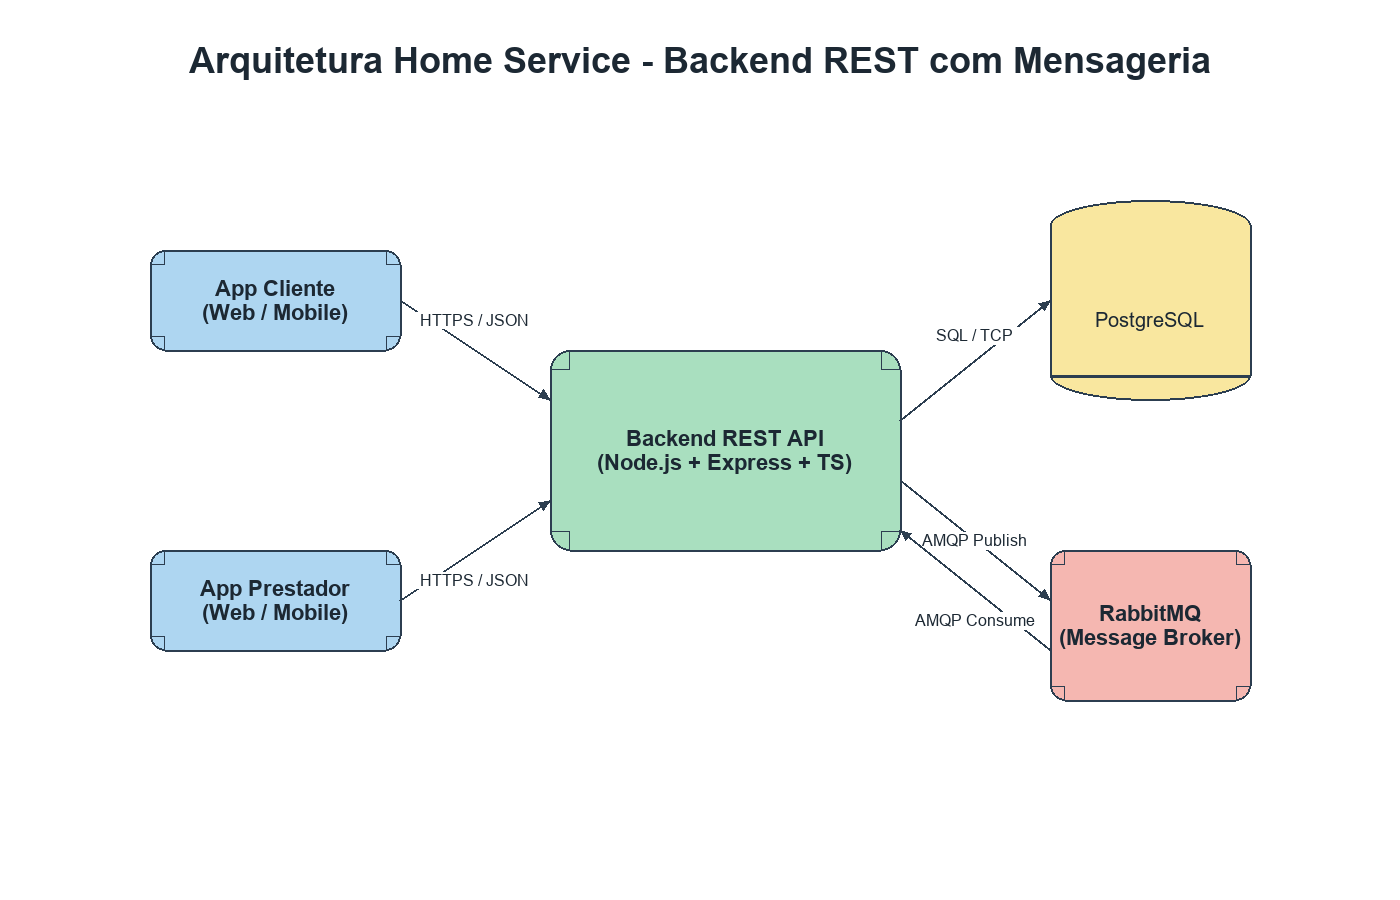
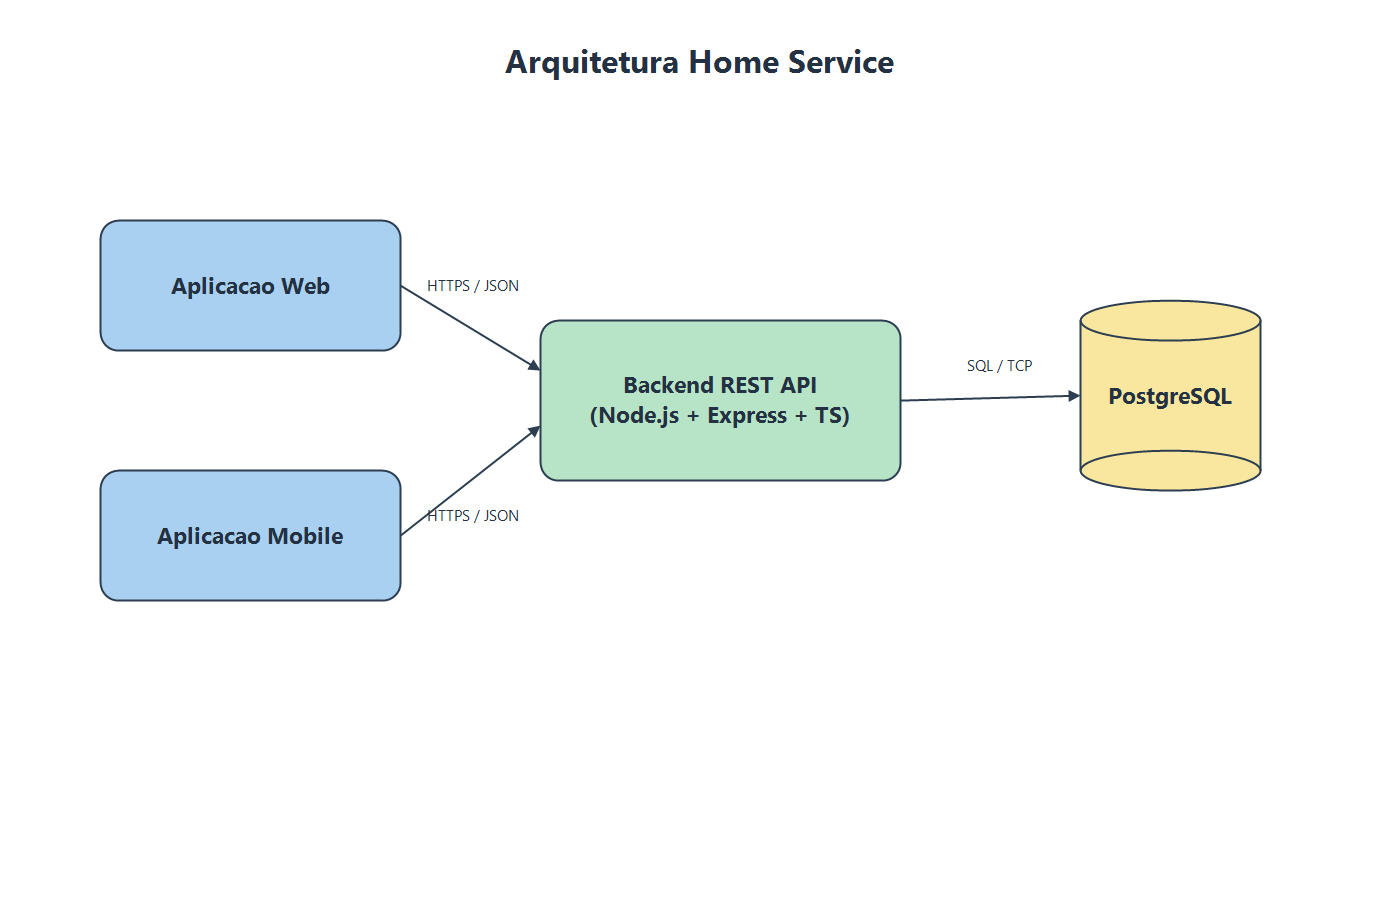
separando o web e o mobile no diagrama

diff --git a/projeto/docs/ARQUITETURA.md b/projeto/docs/ARQUITETURA.md
@@ -2,28 +2,34 @@
 
 ## Visão geral
 
-A solução implementada nesta Sprint 1 foi organizada em quatro blocos principais:
-- Frontend do Cliente
-- Frontend do Prestador
+A entrega implementada nesta Sprint 1 contempla os seguintes blocos:
 - Backend REST API
 - Banco de Dados PostgreSQL
+
+Como visao de sistema, a API foi pensada para ser consumida por uma aplicacao unica, web ou mobile, com suporte a diferentes perfis de usuario dentro do mesmo sistema.
+
+Na modelagem atual, cliente e prestador representam papeis de uso da plataforma, e nao aplicacoes separadas.
+
+Essa interface unica ainda nao faz parte da implementacao atual da sprint.
 
 Como evolução futura, o projeto pode incluir uma camada de mensageria (MOM) para eventos assíncronos, mas essa parte nao foi implementada nesta sprint.
 
 ## Comunicação entre componentes
 
-- Frontends -> Backend: HTTP/HTTPS com JSON
+- Aplicacao cliente da plataforma -> Backend: HTTP/HTTPS com JSON
 - Backend -> Banco: Prisma ORM sobre PostgreSQL
 
 Na implementacao atual da Sprint 1, nao existe integracao com RabbitMQ, Kafka ou outro broker.
 
 ## Fluxo principal
 
-1. Cliente cria solicitação no app.
-2. Backend valida e persiste a solicitação.
-3. Prestador assume a solicitação.
-4. Backend atualiza status e registra conclusão.
-5. Cliente envia avaliação.
+1. Usuario acessa a plataforma e atua conforme seu perfil de uso.
+2. Backend valida e persiste a solicitacao.
+3. Prestador assume a solicitacao.
+4. Backend atualiza status e registra conclusao.
+5. Cliente envia avaliacao.
+
+Na entrega atual, o foco esta no backend e no banco de dados. A interface da aplicacao ainda esta prevista como consumidor futuro da API.
 
 Observacao: uma etapa de publicacao de eventos assincronos pode ser adicionada no futuro, mas nao faz parte da entrega atual.
 

diff --git a/projeto/docs/DIAGRAMA_ARQUITETURA.md b/projeto/docs/DIAGRAMA_ARQUITETURA.md
@@ -1,27 +1,27 @@
-# Arquitetura Backend REST da Sprint 1
+# Arquitetura do Sistema
 
 ```mermaid
 flowchart LR
-    Cliente[App Cliente]
-    Prestador[App Prestador]
+    Web[Aplicacao Web]
+    Mobile[Aplicacao Mobile]
 
     API[Backend REST API<br/>Node.js + Express + TypeScript]
 
     DB[(PostgreSQL)]
 
-    Cliente -->|HTTPS REST API<br/>HTTP/JSON| API
-    Prestador -->|HTTPS REST API<br/>HTTP/JSON| API
+    Web -->|HTTPS REST API<br/>HTTP/JSON| API
+    Mobile -->|HTTPS REST API<br/>HTTP/JSON| API
 
     API -->|SQL/TCP<br/>PostgreSQL Protocol| DB
 ```
 
 ## Leitura rápida
 
-- Os dois frontends acessam a mesma API por HTTPS e JSON.
+- As aplicacoes web e mobile consomem a mesma API por HTTPS e JSON.
 - O backend usa Node.js, Express e TypeScript.
 - A persistência é feita em PostgreSQL.
 
-Observacao: RabbitMQ ou outra camada de mensageria pode ser adicionada como evolucao futura, mas nao foi implementada nesta Sprint 1.
+Observacao: RabbitMQ ou outra camada de mensageria pode ser adicionada como evolucao futura, mas nao foi implementada na versao atual.
 
 ## Legenda técnica
 
